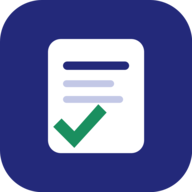
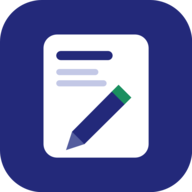
Replace the tick in the app mark with a pencil
A green tick says task list, and task lists are one small thing the app does. What it is for is reading, making and changing files, so the mark is now a page with a pencil laid across it: the heading bar and two lines for the file, the pencil pointing down-left where writing starts. The green survives as the eraser, which keeps the mark recognisably the same app in a tab.

Redrawn in icons/icon.svg and re-rasterised through tools/make-icons.sh, so the favicon, the header brand, the sign-in panel, the manifest icons and the sizes the Dropbox App Console asks for all move together. The first attempt used rotate(); ImageMagick's built-in SVG renderer ignores it and drew the pencil off the page, so the polygon coordinates are written out by hand and both the SVG and the script now say why.

Assisted-by: GitHub Copilot (DeepSeek V4 Flash)

Changed region(s): [[0.2188, 0.1562, 0.7812, 0.8438]]

diff --git a/AGENTS.md b/AGENTS.md
@@ -75,7 +75,7 @@ served.
 | `js/ui.js`, `js/errors.js` | Small shared helpers. |
 | `js/config.js` | The app key (a public identifier) and nothing else. |
 | `vendor/` | Pinned `marked` and `DOMPurify`, with their licences. Not a build step. |
-| `icons/` | `icon.svg` is the artwork; every PNG is generated by `tools/make-icons.sh`. |
+| `icons/` | `icon.svg` is the artwork: flat colours, no gradients, no transforms, because ImageMagick rasterises it. Every PNG comes from `tools/make-icons.sh`. |
 | `tools/make-icons.sh` | Rasterises the icon set (needs ImageMagick). |
 | `sw.js`, `manifest.webmanifest` | PWA shell: network-first, cache name bumped by `publish.sh`. |
 | `publish.sh` | Version, tag, push `main` and the site whitelist to `public`. |
